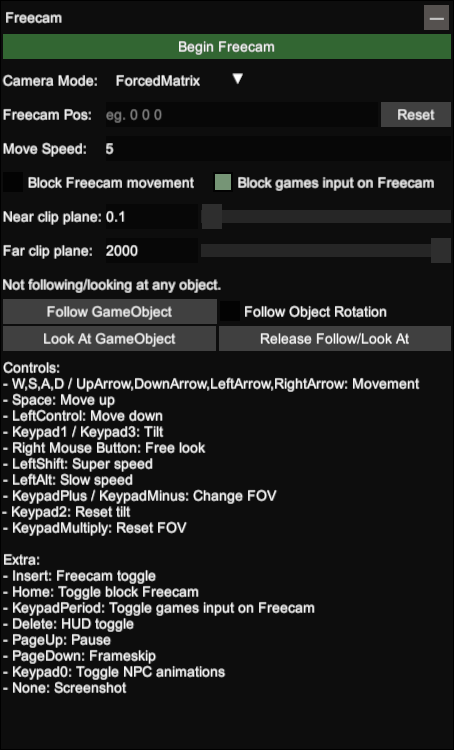
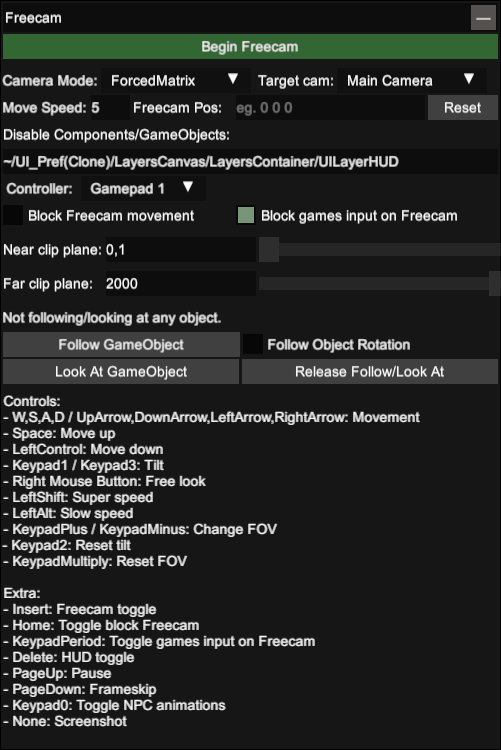
Updated CUE guide ahead of the 1.4 release

diff --git a/GeneralGuides/cinematic-unity-explorer.htm b/GeneralGuides/cinematic-unity-explorer.htm
@@ -62,13 +62,11 @@
 
 
 
-<li class="tocentry"><a href="#new-camera">New Camera</a></li>
+<li class="tocentry"><a href="#freecam-types">Freecam types</a></li>
 
-<li class="tocentry"><a href="#gameplay-camera">Gameplay camera</a></li>
+<li class="tocentry"><a href="#target-camera-dropdown">Target Camera dropdown</a></li>
 
-<li class="tocentry"><a href="#cloned-camera">Cloned camera</a></li>
-
-<li class="tocentry"><a href="#forcedmatrix-camera">ForcedMatrix camera</a></li>
+<li class="tocentry"><a href="#custom-component-disabling">Custom component disabling</a></li>
 
 <li class="tocentry"><a href="#far-and-near-clipping-plane">Far and near clipping plane</a></li>
 
@@ -255,12 +253,6 @@
 <hr />
 <p>The setup is the most cumbersome step of using the Cinematic Unity Explorer but is essentially extracting a couple of zips into the games folder. We include all of the potential problems you may encounter to be as exhaustive as possible, but chances are you won't need to go through them.</p>
 <p>If you stick around and follow the steps as explained below you shouldn't have any problems.</p>
-<p align="center">
-<a href="https://www.youtube.com/watch?v=qufWSNPyeYQ" target="_blank">
-  <img src="https://i.ytimg.com/vi_webp/qufWSNPyeYQ/maxresdefault.webp">
-</a>
-<i>If you ever get lost in this guide I suggest watching the video above for visual aid, even tho it's about installing the original Unity Explorer.</i>
-</p>
 <h2 id="thunderstore">Thunderstore<a class="headerlink" href="#thunderstore" title="Permalink to this headline"><i class="fa fa-link" aria-hidden="true"></i></a></h2>
 <p>Depending on the game, there may be <a href="https://www.overwolf.com/app/thunderstore-thunderstore_mod_manager" target="_blank">Thunderstore Mod Manager</a> support. If so, many of the steps below regarding selecting the right BepInEx/MelonLoader may be avoidable, providing a more streamlined process for installation.
 Most, if not all, games that can be managed through Thunderstore have their BepInEx version already chosen by other players, making installation of CUE as simple as installing BepInEx through the manager, and dragging CUE into the BepInEx folder.</p>
@@ -376,104 +368,165 @@ Boot the game again, through the Modded play button. You should see an overlay w
 <thead>
 <tr>
 	<th>Feature</th>
-	<th>Key</th>
+	<th>Keyboard</th>
+	<th>Gamepad</th>
 </tr>
 </thead>
 <tbody>
 <tr>
-	<td>Freecam</td>
+	<td>Freecam toggle</td>
 	<td><code>Insert</code></td>
+	<td><code>X + R3</code></td>
 </tr>
 <tr>
 	<td>Move the camera forward/left/backward/right</td>
-	<td><code>W</code>/<code>A</code>/<code>S</code>/<code>D</code> - <code>UpArrow</code>/<code>LeftArrow</code>/<code>DownArrow</code>/<code>RightArrow</code></td>
+	<td><code>W</code>/<code>A</code>/<code>S</code>/<code>D</code> - <code>UpArrow</code>/<code>LeftArrow</code>/<code>DownArrow</code>/<code>RightArrow</code>/</td>
+	<td>Left stick</td>
 </tr>
 <tr>
 	<td>Move the camera upwards</td>
 	<td><code>Space</code></td>
+	<td><code>LT</code></td>
 </tr>
 <tr>
 	<td>Move the camera downwards</td>
 	<td><code>LeftControl</code></td>
+	<td><code>RT</code></td>
 </tr>
 <tr>
 	<td>Speed up movement</td>
 	<td><code>LeftShift</code></td>
+	<td><code>Y</code></td>
 </tr>
 <tr>
-	<td>Slow down movement</td>
+	<td>Speed down movement</td>
 	<td><code>LeftAlt</code></td>
+	<td><code>X</code></td>
 </tr>
 <tr>
 	<td>Change freecam orientation</td>
 	<td>Right mouse click</td>
+	<td>Right stick</td>
 </tr>
 <tr>
 	<td>Tilt left</td>
 	<td><code>Numpad 1</code></td>
+	<td>Dpad left</td>
 </tr>
 <tr>
 	<td>Tilt right</td>
 	<td><code>Numpad 3</code></td>
+	<td>Dpad right</td>
 </tr>
 <tr>
 	<td>Reset tilt</td>
 	<td><code>Numpad 2</code></td>
-</tr>
-<tr>
-	<td>Increase FOV</td>
-	<td><code>Numpad +</code></td>
+	<td><code>A</code></td>
 </tr>
 <tr>
 	<td>Decrease FOV</td>
 	<td><code>Numpad -</code></td>
+	<td>Dpad up</td>
+</tr>
+<tr>
+	<td>Increase FOV</td>
+	<td><code>Numpad +</code></td>
+	<td>Dpad down</td>
 </tr>
 <tr>
 	<td>Reset FOV</td>
 	<td><code>Numpad *</code></td>
+	<td><code>B</code></td>
 </tr>
 <tr>
 	<td>Pause</td>
 	<td><code>PageUp</code></td>
+	<td>&nbsp;</td>
 </tr>
 <tr>
-	<td>Block Freecam in place</td>
+	<td>Block Freecam movement and rotation</td>
 	<td><code>Home</code></td>
+	<td>&nbsp;</td>
 </tr>
 <tr>
-	<td>Block the games input</td>
+	<td>Block games input</td>
 	<td><code>Numpad .</code></td>
+	<td>&nbsp;</td>
 </tr>
 <tr>
 	<td>Frameskip</td>
 	<td><code>PageDown</code></td>
+	<td>&nbsp;</td>
 </tr>
 <tr>
 	<td>HUD Toggle</td>
 	<td><code>Delete</code></td>
+	<td>&nbsp;</td>
 </tr>
 <tr>
 	<td>Freeze NPC animations</td>
 	<td><code>Numpad 0</code></td>
+	<td>&nbsp;</td>
 </tr>
 <tr>
-	<td>Open the mod menu</td>
-	<td><code>F7</code></td>
+	<td>Time scale override toggle</td>
+	<td></td>
+	<td><code>X + L3</code></td>
+</tr>
+<tr>
+	<td>Decrease time scale</td>
+	<td></td>
+	<td><code>X + L1</code></td>
+</tr>
+<tr>
+	<td>Increase time scale</td>
+	<td></td>
+	<td><code>X + R1</code></td>
+</tr>
+<tr>
+	<td>Camera path: Add node</td>
+	<td></td>
+	<td><code>A</code></td>
+</tr>
+<tr>
+	<td>Camera path: Navigate to previous node</td>
+	<td></td>
+	<td><code>L1</code></td>
+</tr>
+<tr>
+	<td>Camera path: Navigate to next node</td>
+	<td></td>
+	<td><code>R1</code></td>
+</tr>
+<tr>
+	<td>Camera path: Start/stop playback</td>
+	<td></td>
+	<td><code>START</code></td>
+</tr>
+<tr>
+	<td>Camera path: Pause/unpause playback</td>
+	<td></td>
+	<td><code>SELECT</code></td>
 </tr>
 </tbody>
 </table>
-<h1 id="freecam">Freecam<a class="headerlink" href="#freecam" title="Permalink to this headline"><i class="fa fa-link" aria-hidden="true"></i></a></h1>
+<div class="alert alert-warning"><span class="alert-title"><i class="fa fa-warning"></i> Important!</span><p>Gamepad is only compatible if the game is using <a href="https://docs.unity3d.com/Packages/com.unity.inputsystem@1.0/manual/index.html" target="_blank">Unity Input System</a>.</p>
+</div><div class="alert alert-tip"><span class="alert-title"><i class="fa fa-info-circle"></i> Tip</span><p>Because of limitations in the implementation, if you connect the control after starting up the game, you will need to reselect the controller on the <a href="#freecam">freecam</a> panel.</p>
+</div><h1 id="freecam">Freecam<a class="headerlink" href="#freecam" title="Permalink to this headline"><i class="fa fa-link" aria-hidden="true"></i></a></h1>
 <hr />
 <p>The freecam can be enabled from the &quot;Freecam&quot; panel on the mods menu or with the <code>Insert</code> hotkey. However, there are different kinds of freecams, as explained in the following subsections.</p>
-<p><img src="../Images/CinematicUnityExplorerGuide/freecam-panel.png" alt="Freecam Panel" class="shadowed autosize" width="454" height="750" /></p>
-<h2 id="new-camera">New Camera<a class="headerlink" href="#new-camera" title="Permalink to this headline"><i class="fa fa-link" aria-hidden="true"></i></a></h2>
-<p>When selecting &quot;New&quot; in the Camera Mode dropdown on the Freecam panel, the mod will create a new camera object for you to control. This mode will give you a controllable freecam almost every time, but chances are some (if not most) post-processing effects won't be displayed (because they are being applied to the game's camera, not the new one), making the game look &quot;ugly&quot;.</p>
-<p><img src="../Images/CinematicUnityExplorerGuide/sidebyside.jpg" alt="sidebyside" class="shadowed autosize" width="900" height="253" /></p>
-<p>However, we would like this to be the case in some games if the gameplay camera happens to bring unwanted effects (like in Somerville, where the gameplay camera didn't render behind the black bars, but this new camera did).</p>
-<h2 id="gameplay-camera">Gameplay camera<a class="headerlink" href="#gameplay-camera" title="Permalink to this headline"><i class="fa fa-link" aria-hidden="true"></i></a></h2>
-<p>If you need these postprocessing effects you would need to choose any of the other Camera Modes in the dropdown. In the case of the &quot;Gameplay&quot; camera mod, it will let you control the gameplay camera instead of creating a new one to control.</p>
-<p>When doing this, the Cinematic Unity Explorer will attempt to disable the component that controls this gameplay camera, but in some cases, it won't be able to find the right component to disable and unlock the camera from the game. In such cases in which you cannot move or rotate the gameplay camera we suggest trying the <a href="#cloned-camera">Cloned</a> or <a href="#forcedmatrix-camera">ForcedMatrix</a> camera modes, but if those don't work for whatever reason or the postprocessing effects get butchered you can try the following:</p>
-<h3 id="gameplay-camera-troubleshooting">Gameplay Camera troubleshooting<a class="headerlink" href="#gameplay-camera-troubleshooting" title="Permalink to this headline"><i class="fa fa-link" aria-hidden="true"></i></a></h3>
+<p><img src="../Images/CinematicUnityExplorerGuide/freecam-panel.png" alt="Freecam Panel" class="shadowed autosize" width="501" height="750" /></p>
+<h2 id="freecam-types">Freecam types<a class="headerlink" href="#freecam-types" title="Permalink to this headline"><i class="fa fa-link" aria-hidden="true"></i></a></h2>
+<h3 id="forcedmatrix-camera-selected-by-default">ForcedMatrix camera (selected by default)<a class="headerlink" href="#forcedmatrix-camera-selected-by-default" title="Permalink to this headline"><i class="fa fa-link" aria-hidden="true"></i></a></h3>
+<p>Forces the projection and worldToCamera matrices of the original gameplay camera with our own. This way, we can override what the camera renders without the game logic getting in the way.</p>
+<p>This isn't a silver bullet solution, as there are some games that may have some visual problems/glitches with this approach, but it's very possible that it will work for most games. If you have visual problems like the above, or moving the camera around would make the game unplayable later when you finish your freecam session (some devs don't force the camera transform to its right place and assume it will always be where they think it is), then consider using the <a href="#cloned-camera">freecam mode below</a>.</p>
+<h3 id="cloned-camera">Cloned camera<a class="headerlink" href="#cloned-camera" title="Permalink to this headline"><i class="fa fa-link" aria-hidden="true"></i></a></h3>
+<p>It clones the game object that has the gameplay camera. By doing this instead of using the original gameplay camera we can take control of the camera in case there is an external game object or component that was controlling it, as the game won't have a a reference to this new camera, like when you create a new camera. The difference is that we are also copying all the components that are inside of this game object, which may include postprocessing effects if they are not in another game object.</p>
+<p>There are some cases in which postprocessing effects aren't on the same game object but on a parent game object or an external one, meaning that for them to render properly we would need to use one of the other methods.</p>
+<h3 id="gameplay-camera">Gameplay camera<a class="headerlink" href="#gameplay-camera" title="Permalink to this headline"><i class="fa fa-link" aria-hidden="true"></i></a></h3>
+<p>The &quot;Gameplay&quot; freecam type will let you control the gameplay camera instead of creating a new one to control.</p>
+<p>When doing this, the Cinematic Unity Explorer will attempt to disable the component that controls this gameplay camera, but in some cases, it won't be able to find the right component to disable and unlock the camera from the game. In such cases in which you cannot move or rotate the gameplay camera we suggest trying the <a href="#cloned-camera">Cloned</a> or <a href="#forcedmatrix-camera-selected-by-default">ForcedMatrix</a> camera modes, but if those don't work for whatever reason or the postprocessing effects get butchered, you can try the following:</p>
+<h4 id="gameplay-camera-troubleshooting">Gameplay Camera troubleshooting<a class="headerlink" href="#gameplay-camera-troubleshooting" title="Permalink to this headline"><i class="fa fa-link" aria-hidden="true"></i></a></h4>
 <ul>
 <li>Click on the &quot;Inspect Free Camera&quot; button at the end of the Freecam panel.</li>
 <li>On the Inspector window click on the &quot;Inspect GameObject&quot; button.</li>
@@ -487,13 +540,35 @@ Boot the game again, through the Modded play button. You should see an overlay w
 <p>Remember to enable whatever component or game object you disabled again when you have to return to gameplay, so the game can come back to properly handle the camera.</p>
 <p>The <em>CineMachine</em> component (a common Unity class used for controlling a gameplay camera) gets automatically disabled by Cinematic Unity Explorer, but some games (e.g. Haven) turn this <em>CineMachine</em> component back on whenever it gets disabled, and the only solution for dealing with it is to straight up delete the component. It's advised to go back to the menu or reload the level in some capacity to get this component back once you finish your shooting session.</p>
 <p><img src="../Images/CinematicUnityExplorerGuide/disable-camera-components.webp" alt="Disable another component on the gameplay camera" class="shadowed autosize" /></p>
-<h2 id="cloned-camera">Cloned camera<a class="headerlink" href="#cloned-camera" title="Permalink to this headline"><i class="fa fa-link" aria-hidden="true"></i></a></h2>
-<p>It clones the game object that has the gameplay camera. By doing this instead of using the original gameplay camera we can take control of the camera in case there is an external game object or component that was controlling it, as the game won't have a a reference to this new camera, like when you create a new camera. The difference is that we are also copying all the components that are inside of this game object, which may include postprocessing effects if they are not in another game object.</p>
-<p>There are some cases in which postprocessing effects aren't on the same game object but on a parent game object or an external one, meaning that for them to render properly we would need to use one of the following methods.</p>
-<h2 id="forcedmatrix-camera">ForcedMatrix camera<a class="headerlink" href="#forcedmatrix-camera" title="Permalink to this headline"><i class="fa fa-link" aria-hidden="true"></i></a></h2>
-<p>Forces the projection and worldToCamera matrices of the original gameplay camera with our own. This way we can override what the camera renders without the game logic getting in the way.</p>
-<p>This isn't a silver bullet solution as there are some games that may have some problems with this approach (the ones that use the HD rendering pipeline package mainly), but it's very possible that it will work for most games.</p>
-<h2 id="far-and-near-clipping-plane">Far and near clipping plane<a class="headerlink" href="#far-and-near-clipping-plane" title="Permalink to this headline"><i class="fa fa-link" aria-hidden="true"></i></a></h2>
+<div class="alert alert-tip"><span class="alert-title"><i class="fa fa-info-circle"></i> Tip</span><p>Once you find the component that requires disabling to properly move the camera, you may want to add it to the <a href="#custom-component-disabling">list of components to disable</a>.</p>
+</div><h3 id="new-camera">New Camera<a class="headerlink" href="#new-camera" title="Permalink to this headline"><i class="fa fa-link" aria-hidden="true"></i></a></h3>
+<p>When selecting &quot;New&quot; in the Camera Mode dropdown on the Freecam panel, the mod will create a new camera object for you to control. This mode will give you a controllable freecam almost every time, but chances are some (if not most) post-processing effects won't be displayed (because they are being applied to the game's camera, not the new one), making the game look &quot;ugly&quot;.</p>
+<p><img src="../Images/CinematicUnityExplorerGuide/sidebyside.jpg" alt="sidebyside" class="shadowed autosize" width="900" height="253" /></p>
+<p>However, we would like this to be the case in some games if the gameplay camera happens to bring unwanted effects (like in Somerville, where the gameplay camera didn't render behind the black bars, but this new camera did).</p>
+<h2 id="target-camera-dropdown">Target Camera dropdown<a class="headerlink" href="#target-camera-dropdown" title="Permalink to this headline"><i class="fa fa-link" aria-hidden="true"></i></a></h2>
+<p>All of the methods described above (aside from &quot;New Camera&quot;) interact with the &quot;main camera&quot; offered by the game. There are times that the game doesn't tag any camera as the main, or because of how their rendering pipeline works, the actual camera doing the rendering isn't the one tagged as main. In these cases, we would like to manually select which camera we want our freecam methods to interact with. Therefore, we do the following:</p>
+<ol>
+<li>Go to the CUE options panel, scroll down, and enable &quot;Freecam Camera Target Selection&quot;. Restart the game.</li>
+<li>Go to the freecam panel. You should see a new dropdown next to the freecam method dropdown. Enable freecam mode, and you will get that new dropdown filled with the existing camera objects in the current scene.</li>
+<li>Go one by one with the current freecam method and see if the newly selected camera object allows you to move the camera.</li>
+<li>If neither of the cameras available in that dropdown can be moved with your current freecam type, select another freecam method and try all of them again (minus the <a href="#new-camera">New Camera</a>). One should work.</li>
+</ol>
+<p>Please keep in mind that this is some sort of &quot;last resort&quot; solution. Only do this if either you see an error in the CUE console saying that it couldn't find the camera, or if neither of the freecam methods worked (even after attempting to disable components, as explained in the <a href="#gameplay-camera-troubleshooting">Gameplay Camera troubleshooting</a> section).</p>
+<div class="alert alert-tip"><span class="alert-title"><i class="fa fa-info-circle"></i> Tip</span><p>You only really need to look up this target camera once. After that, CUE will remember your target camera and try to look for it in subsequent sessions.</p>
+</div><h2 id="custom-component-disabling">Custom component disabling<a class="headerlink" href="#custom-component-disabling" title="Permalink to this headline"><i class="fa fa-link" aria-hidden="true"></i></a></h2>
+<p>Sometimes, there are components that you always disable when entering freecam. It could be a component that is moving the camera, so you need to get rid of it (like we do on <a href="#gameplay-camera-troubleshooting">Gameplay Camera troubleshooting</a>), a shader effect that messes with your screenshots, a UI element that isn't toggled off with our <a href="#hud-toggle">HUD toggle</a>, or the custom character controller solution the game uses and it's also not disabled by default. CUE provides a system to describe all of these components to it so it can disable them for you every time you enter Freecam. To do so:</p>
+<ol>
+<li>Go to the freecam panel and head down to the &quot;Components To Disable&quot; input field.</li>
+<li>In there, you can write a list of components &quot;paths&quot; separated by commas, like the example below:</li>
+</ol>
+<pre class="nocode">CameraController, ../OutlineEffect, ~/GameManager/CharacterController
+</pre><div class="alert alert-tip"><span class="alert-title"><i class="fa fa-info-circle"></i> Tip</span><p>Think of objects as &quot;folders&quot; and components as &quot;files&quot;. Every entry in the list of components could have multiple &quot;folders&quot; in its hirarchy, and each entry can either point to a &quot;file&quot; or a &quot;folder&quot;, depending if you want to disable just a single component or an entire game object.</p>
+</div><p>These components' &quot;paths&quot; are relative to the target camera object. So, if, for example, the freecam method you want/need to use requires disabling a component that is controlling the camera, like <code>CameraController</code> (which is a component in the target camera object), you can just add it to this list so it's disabled/enabled every time you enter/exit freecam mode.</p>
+<p>The second example, <code>../OutlineEffect</code>, refers to a component (or game object) that lives in the parent object of the camera. Sometimes, unwanted effects exist in other objects close to the camera as some sort of wrapper. So, we can use <code>../</code> to refer to the parent object of the target camera as if it were a file system path. You can chain these to refer to another ancestor object up the parent hierarchy, but if you are chaining a lot of these, maybe consider taking a look at the example below.</p>
+<p>The third and last example, <code>~/GameManager/CharacterController</code>, includes a <code>~/</code> at the beginning. As with a Unix filesystem, this tells CUE that the path you are about to present starts at the root of the scene. This is useful when you want to disable components that are unrelated to the camera and are, therefore, &quot;far&quot; from it, like a component in charge of reading user input and translating it to player movement.</p>
+<div class="alert alert-tip"><span class="alert-title"><i class="fa fa-info-circle"></i> Tip</span><p>CUE Inspector panel, as shown in the <a href="#playing-around-with-game-objects">Playing around with game objects section</a>, gives you the full path of the object at the top, which you can copy completely to refer to a specific object you want to disable the component of. Just remember to add <code>~/</code> at the start of the path, and finish the path with an actual gameobject name itself (and component, if you need to).</p>
+<p>For more info about the distinction between game objects and components, refer to the linked section.</p>
+</div><h2 id="far-and-near-clipping-plane">Far and near clipping plane<a class="headerlink" href="#far-and-near-clipping-plane" title="Permalink to this headline"><i class="fa fa-link" aria-hidden="true"></i></a></h2>
 <p>If you encounter the game world stop rendering after a certain point, you can increase the Far clip plane in the Freecam panel to see far-away meshes.</p>
 <p>Similarly, if you want to move the camera closer to an object and it gets cut out because of the camera being near it you can decrease the Near clip plane in the Freecam panel.</p>
 <p>It is also worth mentioning how there might be situations in which you would want to decrease the far clip plane or increase the near clip plane, like if there are things on the distance that you do not want to include on your shot, or there are things blocking your composition near the camera.</p>
@@ -501,7 +576,7 @@ Boot the game again, through the Modded play button. You should see an overlay w
 <h2 id="block-input">Block input<a class="headerlink" href="#block-input" title="Permalink to this headline"><i class="fa fa-link" aria-hidden="true"></i></a></h2>
 <p>You can enable or disable the game input when the freecam is enabled by clicking the &quot;Enable game input&quot; checkbox on the Freecam panel or pressing the <code>Numpad .</code> hotkey by default. This is enabled by default to avoid moving the character when moving the freecam.</p>
 <p>This can be used in conjunction with the &quot;Block freecam&quot; to freeze the freecam in a specific, nongameplay place, while you move the character around.</p>
-<p>Do keep in mind tho that this feature only works if the developers use Unity's Legacy Input system for their game. If the game uses a custom solution or the latest Unity system then this won't work. Implementing this for Unity's new system is in the backlog, so if you find a game using it (should say <code>Initialized new InputSystem support.</code> on the logs) then please let me know on the <a href="https://github.com/originalnicodr/CinematicUnityExplorer/issues" target="_blank">repository issues page</a> so I can implement it using that game!</p>
+<p>Do keep in mind, tho, that this feature only works if the developers use <a href="https://docs.unity3d.com/6000.2/Documentation/Manual/InputLegacy.html" target="_blank">Unity's Legacy Input System</a> or the new <a href="https://docs.unity3d.com/Packages/com.unity.inputsystem@1.0/manual/index.html" target="_blank">Unity Input System package</a> for their game. If the game uses a custom solution (or uses the actions engine system, as far as I understand), then this won't work.</p>
 <p>Also, know that blocking game input coming from a controller isn't supported at the time of writing.</p>
 <p>In the meantime, if you need to disable the game input and the mod isn't doing so automatically you can try looking for the right game object or component to disable. Follow the steps described in the <a href="#gameplay-camera">gameplay camera section</a> to do so.</p>
 <h2 id="follow-object">Follow object<a class="headerlink" href="#follow-object" title="Permalink to this headline"><i class="fa fa-link" aria-hidden="true"></i></a></h2>
